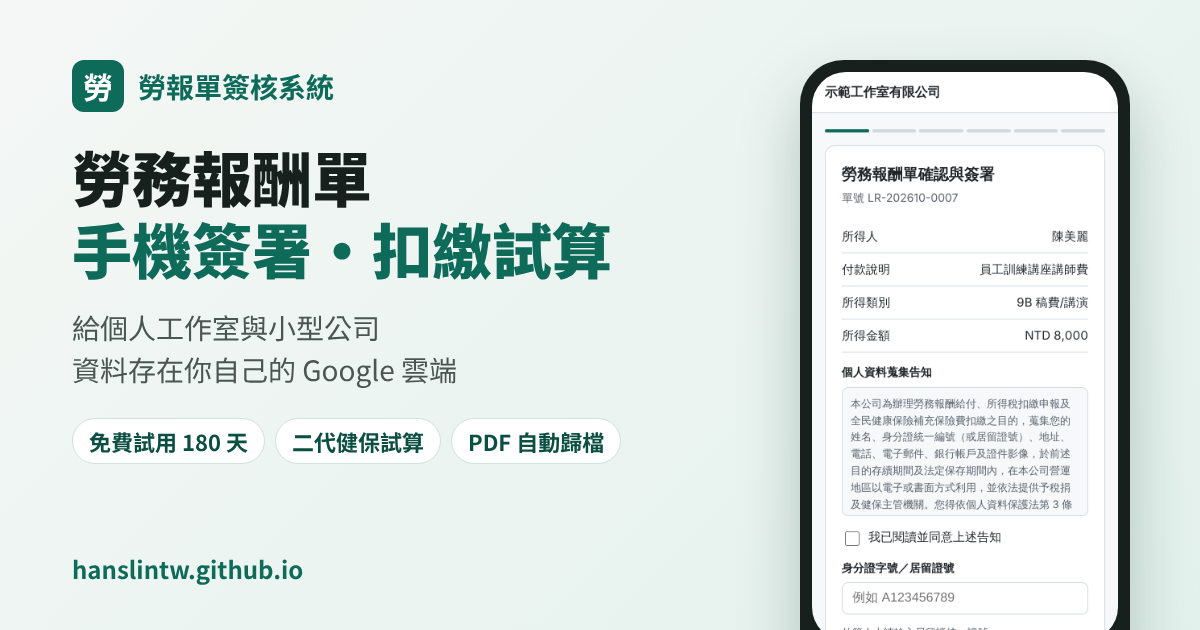
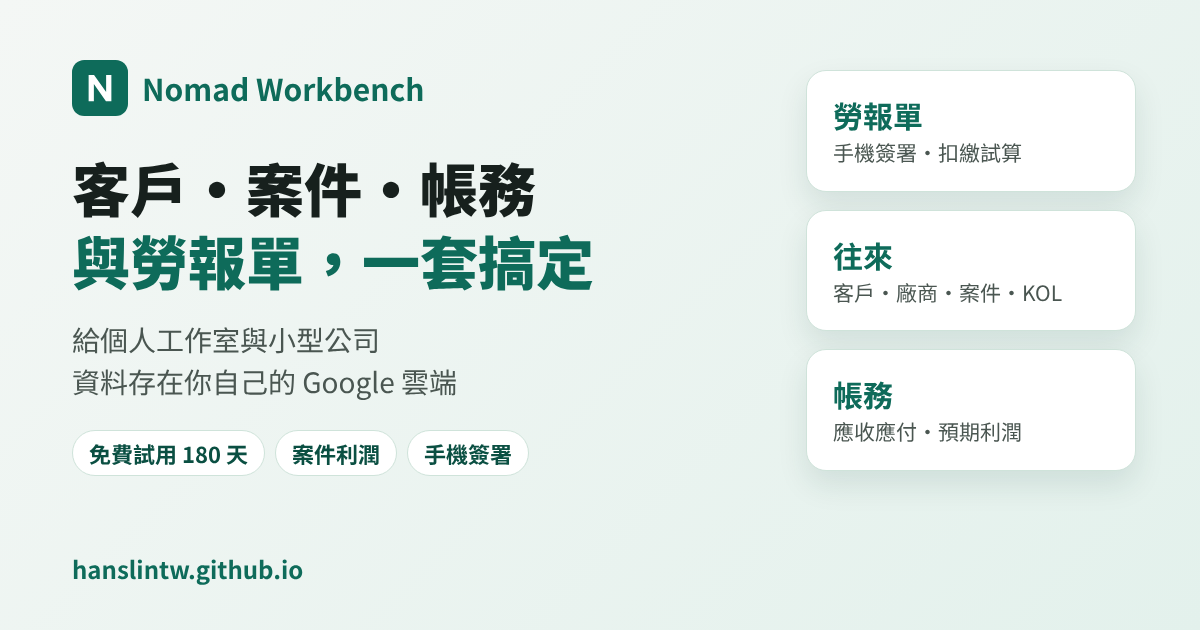
更新

diff --git a/index.html b/index.html
@@ -13,8 +13,8 @@
 <meta charset="utf-8">
 <meta name="viewport" content="width=device-width,initial-scale=1">
 <!-- SEO -->
-<title>Nomad Workbench｜勞務報酬單線上簽署、二代健保與扣繳自動試算</title>
-<meta name="description" content="給個人工作室與小型公司的勞務報酬單系統：輸入姓名金額、傳 LINE 連結，所得人手機簽名，二代健保補充保費與所得稅自動試算，PDF 自動歸檔。資料存在自己的 Google 雲端，免費試用 180 天。">
+<title>Nomad Workbench｜勞務報酬單、客戶案件與帳務管理，資料都在自己的 Google 雲端</title>
+<meta name="description" content="給個人工作室與小型公司的雲端工作台：勞務報酬單線上簽署與二代健保、扣繳自動試算，加上客戶與廠商往來、案件管理、媒體・KOL 邀約、應收應付與案件利潤。資料存在自己的 Google 雲端，免費試用 180 天。">
 <meta name="robots" content="index,follow">
 <link rel="canonical" href="https://hanslintw.github.io/">
 <link rel="icon" href="favicon.svg" type="image/svg+xml">
@@ -23,69 +23,106 @@
 <meta property="og:type" content="website">
 <meta property="og:site_name" content="Nomad Workbench｜REMON nomad">
 <meta property="og:locale" content="zh_TW">
-<meta property="og:title" content="Nomad Workbench｜勞務報酬單線上簽署、二代健保與扣繳自動試算">
-<meta property="og:description" content="給個人工作室與小型公司的勞務報酬單系統：輸入姓名金額、傳 LINE 連結，所得人手機簽名，二代健保補充保費與所得稅自動試算，PDF 自動歸檔。資料存在自己的 Google 雲端，免費試用 180 天。">
+<meta property="og:title" content="Nomad Workbench｜勞務報酬單、客戶案件與帳務管理，資料都在自己的 Google 雲端">
+<meta property="og:description" content="給個人工作室與小型公司的雲端工作台：勞務報酬單線上簽署與二代健保、扣繳自動試算，加上客戶與廠商往來、案件管理、媒體・KOL 邀約、應收應付與案件利潤。資料存在自己的 Google 雲端，免費試用 180 天。">
 <meta property="og:url" content="https://hanslintw.github.io/">
 <meta property="og:image" content="https://hanslintw.github.io/og-image.png">
 <meta property="og:image:width" content="1200">
 <meta property="og:image:height" content="630">
 <meta name="twitter:card" content="summary_large_image">
-<meta name="twitter:title" content="Nomad Workbench｜勞務報酬單線上簽署、二代健保與扣繳自動試算">
-<meta name="twitter:description" content="給個人工作室與小型公司的勞務報酬單系統：輸入姓名金額、傳 LINE 連結，所得人手機簽名，二代健保補充保費與所得稅自動試算，PDF 自動歸檔。資料存在自己的 Google 雲端，免費試用 180 天。">
+<meta name="twitter:title" content="Nomad Workbench｜勞務報酬單、客戶案件與帳務管理，資料都在自己的 Google 雲端">
+<meta name="twitter:description" content="給個人工作室與小型公司的雲端工作台：勞務報酬單線上簽署與二代健保、扣繳自動試算，加上客戶與廠商往來、案件管理、媒體・KOL 邀約、應收應付與案件利潤。資料存在自己的 Google 雲端，免費試用 180 天。">
 <meta name="twitter:image" content="https://hanslintw.github.io/og-image.png">
 <script type="application/ld+json">{"@context":"https://schema.org","@type":"Organization","name":"REMON nomad","url":"https://hanslintw.github.io/","email":"lr@remonnomad.com","logo":"https://hanslintw.github.io/apple-touch-icon.png"}</script>
-<script type="application/ld+json">{"@context":"https://schema.org","@type":"SoftwareApplication","name":"Nomad Workbench","applicationCategory":"BusinessApplication","operatingSystem":"Web（Google 試算表／Google Apps Script）","url":"https://hanslintw.github.io/","image":"https://hanslintw.github.io/og-image.png","inLanguage":"zh-TW","description":"給個人工作室與小型公司的勞務報酬單系統：線上開單、所得人手機簽署、二代健保補充保費與所得稅自動試算、PDF 自動歸檔，資料存放在自己的 Google 雲端。","offers":{"@type":"Offer","price":"0","priceCurrency":"TWD","description":"免費試用 180 天，每月 20 張"},"publisher":{"@type":"Organization","name":"REMON nomad"}}</script>
-<script type="application/ld+json">{"@context":"https://schema.org","@type":"FAQPage","mainEntity":[{"@type":"Question","name":"Nomad Workbench 要收費嗎？","acceptedAnswer":{"@type":"Answer","text":"目前提供 180 天免費試用，期間每月可發送 20 張勞務報酬單。正式方案請來信 lr@remonnomad.com 洽詢。"}},{"@type":"Question","name":"勞報單和所得人的資料會存在哪裡？","acceptedAnswer":{"@type":"Answer","text":"全部存放在貴公司自己的 Google 試算表與 Google 雲端硬碟，包括身分證、存摺影像與簽名。系統供應商無法存取。"}},{"@type":"Question","name":"二代健保補充保費和所得稅會自動計算嗎？","acceptedAnswer":{"@type":"Answer","text":"會。系統依所得類別（執行業務 9A、稿費講演 9B、兼職薪資 50、其他所得 92）與金額，自動判斷是否需要扣繳並試算實付金額；法規參數調整時由系統自動更新。"}},{"@type":"Question","name":"所得人需要下載 App 或註冊帳號嗎？","acceptedAnswer":{"@type":"Answer","text":"不用。所得人用手機打開 LINE 或 Email 收到的連結，就能上傳證件、填寫帳戶並手寫簽名，約 3 分鐘完成。"}},{"@type":"Question","name":"外籍人士可以使用嗎？","acceptedAnswer":{"@type":"Answer","text":"可以。支援居留證統一證號，並由所得人自行申報當年度是否在台居留滿 183 天。"}},{"@type":"Question","name":"需要會寫程式才能安裝嗎？","acceptedAnswer":{"@type":"Answer","text":"不用。依安裝說明操作約 30 分鐘完成，試算表內的安裝精靈會逐步檢查每個步驟；也可以請我們代為安裝。"}}]}</script>
+<script type="application/ld+json">{"@context":"https://schema.org","@type":"SoftwareApplication","name":"Nomad Workbench","applicationCategory":"BusinessApplication","operatingSystem":"Web（Google 試算表／Google Apps Script）","url":"https://hanslintw.github.io/","image":"https://hanslintw.github.io/og-image.png","inLanguage":"zh-TW","description":"給個人工作室與小型公司的雲端工作台：勞務報酬單線上簽署與二代健保、扣繳自動試算，加上客戶與廠商往來、案件管理、媒體・KOL 邀約、應收應付與案件利潤。資料存在自己的 Google 雲端，免費試用 180 天。","featureList":["勞務報酬單線上簽署","二代健保補充保費與所得稅自動試算","客戶、廠商、接案人員往來管理","案件管理（專案、定期服務、期間合約）","媒體・KOL 邀約與合作紀錄","應收、應付與收付款","案件預期利潤與現金淨額","資料存放在自己的 Google 雲端"],"offers":{"@type":"Offer","price":"0","priceCurrency":"TWD","description":"免費試用 180 天，勞報單每月 20 張"},"publisher":{"@type":"Organization","name":"REMON nomad"}}</script>
+<script type="application/ld+json">{"@context":"https://schema.org","@type":"FAQPage","mainEntity":[{"@type":"Question","name":"Nomad Workbench 要收費嗎？","acceptedAnswer":{"@type":"Answer","text":"目前提供 180 天免費試用，期間勞報單每月可發送 20 張。正式方案請來信 lr@remonnomad.com 洽詢。"}},{"@type":"Question","name":"Nomad Workbench 包含哪些功能？","acceptedAnswer":{"@type":"Answer","text":"分成三個模組：勞報單（開單、手機簽署、扣繳試算、PDF 歸檔）、往來（客戶、廠商、接案人員與媒體・KOL 名單，案件與互動紀錄、標籤）、帳務（應收、應付、收付款、固定費用與案件利潤）。三個模組共用同一份資料，勞報單開出後會自動成為案件的應付成本。"}},{"@type":"Question","name":"資料會存在哪裡？","acceptedAnswer":{"@type":"Answer","text":"全部存放在貴公司自己的 Google 試算表與 Google 雲端硬碟，包括客戶與往來對象資料、案件與帳款、所得人的身分證、存摺影像與簽名。系統供應商無法存取。"}},{"@type":"Question","name":"二代健保補充保費和所得稅會自動計算嗎？","acceptedAnswer":{"@type":"Answer","text":"會。系統依所得類別（執行業務 9A、稿費講演 9B、兼職薪資 50、其他所得 92）與金額，自動判斷是否需要扣繳並試算實付金額；法規參數調整時由系統自動更新。"}},{"@type":"Question","name":"案件利潤怎麼算？","acceptedAnswer":{"@type":"Answer","text":"每個案件會同時顯示三種數字：已認列利潤（已開立帳款的收入扣掉成本）、預期利潤（含已排定的收款與預計成本，更接近最後會賺多少），以及現金淨額（實際收到與付出的錢）。固定費用可以平均分攤到當月進行中的案件。"}},{"@type":"Question","name":"金額是含稅還是未稅？","acceptedAnswer":{"@type":"Answer","text":"後台的金額預設以含稅顯示與輸入，容易對照發票與報價；系統內部以未稅記帳，利潤與毛利率以未稅計算。外國廠商等免營業稅的帳款可個別設定。"}},{"@type":"Question","name":"可以限制同事看到成本與金額嗎？","acceptedAnswer":{"@type":"Answer","text":"可以。後台依角色控管：例如業務可以管理客戶與案件，但看不到報價成本與帳務；財務與管理員才能看金額與利潤。"}},{"@type":"Question","name":"所得人需要下載 App 或註冊帳號嗎？","acceptedAnswer":{"@type":"Answer","text":"不用。所得人用手機打開 LINE 或 Email 收到的連結，就能上傳證件、填寫帳戶並手寫簽名，約 3 分鐘完成。"}},{"@type":"Question","name":"外籍人士可以使用嗎？","acceptedAnswer":{"@type":"Answer","text":"可以。支援居留證統一證號，並由所得人自行申報當年度是否在台居留滿 183 天。"}},{"@type":"Question","name":"試用包含往來與帳務模組嗎？","acceptedAnswer":{"@type":"Answer","text":"試用金鑰預設開通勞報單模組。想一起試用「往來」與「帳務」，請來信 lr@remonnomad.com 告知，我們會為你的試用金鑰加開。"}},{"@type":"Question","name":"需要會寫程式才能安裝嗎？","acceptedAnswer":{"@type":"Answer","text":"不用。依安裝說明操作約 30 分鐘完成，試算表內的安裝精靈會逐步檢查每個步驟；也可以請我們代為安裝。"}}]}</script>
 <!-- /SEO -->
 <link rel="stylesheet" href="style.css">
 </head>
 <body>
 <div class="wrap">
-  <header><div class="mk">勞</div><div><b>Nomad Workbench</b><span>REMON nomad</span></div></header>
+  <header><div class="mk">N</div><div><b>Nomad Workbench</b><span>REMON nomad</span></div></header>
 
   <section class="card">
-    <h1>勞務報酬單，在你自己的 Google 雲端完成</h1>
-    <p class="lead">給個人工作室與小型公司的勞報單工具：開單、線上簽署、扣繳試算、PDF 歸檔一次完成。所得人的身分證、存摺與簽名只存放在貴公司自己的 Google 雲端硬碟。</p>
-    <span class="pill">資料留在自己的雲端</span><span class="pill">二代健保、所得稅自動試算</span><span class="pill">手機簽署</span><span class="pill">企業後台</span>
-    <p style="margin:14px 0 0"><a class="btn" href="demo/">立即線上試玩 →</a> <a class="btn" href="install.html#signup" style="background:#fff;color:var(--c);border:1px solid var(--c)">免費試用 180 天</a> <span style="font-size:13px;color:var(--mute)">免登入，左邊開單、右邊用「手機」簽署</span></p>
+    <h1>客戶、案件、帳務與勞報單，都在你自己的 Google 雲端</h1>
+    <p class="lead">給個人工作室與小型公司的雲端工作台：從接洽客戶、管理案件與廠商，到勞務報酬單簽署、應收應付與案件利潤，一套系統接起來。所有資料只存放在貴公司自己的 Google 試算表與雲端硬碟。</p>
+    <span class="pill">資料留在自己的雲端</span><span class="pill">客戶・案件・帳務</span><span class="pill">勞報單手機簽署</span><span class="pill">二代健保、所得稅自動試算</span><span class="pill">案件利潤一目了然</span>
+    <p style="margin:14px 0 0"><a class="btn" href="demo/">立即線上試玩 →</a> <a class="btn" href="install.html#signup" style="background:#fff;color:var(--c);border:1px solid var(--c)">免費試用 180 天</a> <span style="font-size:13px;color:var(--mute)">試玩免登入，左邊開單、右邊用「手機」簽署</span></p>
+  </section>
+
+  <section class="card" id="modules">
+    <h2 style="margin-top:0">三個模組，共用同一份資料</h2>
+    <div class="mods">
+      <div><b>勞報單</b><p>輸入姓名和金額、傳 LINE 連結，所得人手機簽名，扣繳自動試算，PDF 自動歸檔。</p></div>
+      <div><b>往來</b><p>客戶、廠商、接案人員、媒體・KOL 集中管理，案件、互動紀錄與標籤一站查得到。</p></div>
+      <div><b>帳務</b><p>應收、應付、收付款與固定費用；每個案件的預期利潤、已認列利潤與現金淨額。</p></div>
+    </div>
+    <p style="margin:0">勞報單開出後會自動成為案件的應付成本，不必重複登打。可以只用勞報單，也可以三個一起用。</p>
   </section>
 
   <section class="card">
     <h2 style="margin-top:0">以前 vs. 現在</h2>
     <table>
       <tr><th style="width:5em"></th><th>流程</th></tr>
-      <tr><td>以前</td><td>印勞報單 → 寄出 → 等簽名 → 收證件影本 → 手算二代健保與扣繳 → 掃描歸檔</td></tr>
-      <tr><td><b>現在</b></td><td><b>輸入姓名和金額 → 傳 LINE 連結 → 對方手機簽完 → PDF 自動歸檔</b></td></tr>
+      <tr><td>以前</td><td>客戶、廠商資料散在 LINE 與 Excel → 案子成本另外記 → 印勞報單等簽名 → 手算二代健保與扣繳 → 月底才知道賺不賺錢</td></tr>
+      <tr><td><b>現在</b></td><td><b>案件建好、客戶與成員掛上 → 勞報單傳 LINE 連結簽完自動歸檔 → 收付款登記後，案件利潤隨時看得到</b></td></tr>
     </table>
     <h2>適合誰</h2>
     <ul>
       <li>常請攝影師、設計師、講師、工讀生的<b>個人工作室與小型公司</b></li>
-      <li>每月要處理數張到數百張<b>勞務報酬單</b>，不想再紙本往返的經辦與會計</li>
-      <li>重視個資，希望證件與存摺影像<b>只存在自己雲端</b>的團隊</li>
+      <li>同時要管客戶、廠商、案件與收付款，<b>老闆兼財務</b>的小團隊與接案者</li>
+      <li>做公關、活動、記者會，需要記錄<b>媒體與 KOL 邀約、出席與露出</b>的團隊</li>
+      <li>重視個資，希望證件、存摺與客戶資料<b>只存在自己雲端</b>的公司</li>
     </ul>
   </section>
 
   <section class="card" id="faq">
     <h2 style="margin-top:0">常見問題</h2>
-    <details><summary>Nomad Workbench 要收費嗎？</summary><p>目前提供 180 天免費試用，期間每月可發送 20 張勞務報酬單。正式方案請來信 lr@remonnomad.com 洽詢。</p></details>
-    <details><summary>勞報單和所得人的資料會存在哪裡？</summary><p>全部存放在貴公司自己的 Google 試算表與 Google 雲端硬碟，包括身分證、存摺影像與簽名。系統供應商無法存取。</p></details>
+    <details><summary>Nomad Workbench 要收費嗎？</summary><p>目前提供 180 天免費試用，期間勞報單每月可發送 20 張。正式方案請來信 lr@remonnomad.com 洽詢。</p></details>
+    <details><summary>Nomad Workbench 包含哪些功能？</summary><p>分成三個模組：勞報單（開單、手機簽署、扣繳試算、PDF 歸檔）、往來（客戶、廠商、接案人員與媒體・KOL 名單，案件與互動紀錄、標籤）、帳務（應收、應付、收付款、固定費用與案件利潤）。三個模組共用同一份資料，勞報單開出後會自動成為案件的應付成本。</p></details>
+    <details><summary>資料會存在哪裡？</summary><p>全部存放在貴公司自己的 Google 試算表與 Google 雲端硬碟，包括客戶與往來對象資料、案件與帳款、所得人的身分證、存摺影像與簽名。系統供應商無法存取。</p></details>
     <details><summary>二代健保補充保費和所得稅會自動計算嗎？</summary><p>會。系統依所得類別（執行業務 9A、稿費講演 9B、兼職薪資 50、其他所得 92）與金額，自動判斷是否需要扣繳並試算實付金額；法規參數調整時由系統自動更新。</p></details>
+    <details><summary>案件利潤怎麼算？</summary><p>每個案件會同時顯示三種數字：已認列利潤（已開立帳款的收入扣掉成本）、預期利潤（含已排定的收款與預計成本，更接近最後會賺多少），以及現金淨額（實際收到與付出的錢）。固定費用可以平均分攤到當月進行中的案件。</p></details>
+    <details><summary>金額是含稅還是未稅？</summary><p>後台的金額預設以含稅顯示與輸入，容易對照發票與報價；系統內部以未稅記帳，利潤與毛利率以未稅計算。外國廠商等免營業稅的帳款可個別設定。</p></details>
+    <details><summary>可以限制同事看到成本與金額嗎？</summary><p>可以。後台依角色控管：例如業務可以管理客戶與案件，但看不到報價成本與帳務；財務與管理員才能看金額與利潤。</p></details>
     <details><summary>所得人需要下載 App 或註冊帳號嗎？</summary><p>不用。所得人用手機打開 LINE 或 Email 收到的連結，就能上傳證件、填寫帳戶並手寫簽名，約 3 分鐘完成。</p></details>
     <details><summary>外籍人士可以使用嗎？</summary><p>可以。支援居留證統一證號，並由所得人自行申報當年度是否在台居留滿 183 天。</p></details>
+    <details><summary>試用包含往來與帳務模組嗎？</summary><p>試用金鑰預設開通勞報單模組。想一起試用「往來」與「帳務」，請來信 lr@remonnomad.com 告知，我們會為你的試用金鑰加開。</p></details>
     <details><summary>需要會寫程式才能安裝嗎？</summary><p>不用。依<a href="install.html">安裝說明</a>操作約 30 分鐘完成，試算表內的安裝精靈會逐步檢查每個步驟；也可以請我們代為安裝。</p></details>
   </section>
 
-  <section class="card">
-    <h2>功能</h2>
+  <section class="card" id="features">
+    <h2 style="margin-top:0">功能</h2>
+    <h2>勞報單</h2>
     <ul>
       <li>經辦輸入姓名與金額，系統自動帶出所得人資料並試算補充保費、所得稅與實付金額</li>
       <li>所得人用手機開啟連結，上傳證件、填寫帳戶並手寫簽名</li>
       <li>自動產生報酬單 PDF（含證件影像與簽署紀錄），並保存稽核軌跡</li>
-      <li>企業後台：總覽、開單、單據追蹤、批次標記撥款、成員權限</li>
-      <li>扣繳參數依法規更新，由系統自動套用</li>
+      <li>批次標記撥款、單據追蹤；扣繳參數依法規更新，由系統自動套用</li>
+    </ul>
+    <h2>往來與案件</h2>
+    <ul>
+      <li><b>往來對象</b>：公司與個人、客戶／廠商／接案人員／媒體・KOL 角色可複選，可記錄所屬公司與任職紀錄，支援整批匯入</li>
+      <li><b>案件</b>：一次性專案、定期服務、期間合約三種類型各有標籤；合約到期前自動提醒，可設定自動續約；案件成員、窗口與狀態一目了然</li>
+      <li><b>互動紀錄</b>：訊息、電話、會議、拜訪都能記，並標出待跟進事項</li>
+      <li><b>標籤</b>：自訂群組與顏色，往來對象與案件都能分類、篩選</li>
+      <li><b>媒體・KOL 邀約</b>：記錄每場活動的邀請、回覆、出席、露出連結與評分，下次依過去的出席率與配合度挑選邀請名單；沒有這類需求的案件可以不顯示</li>
+    </ul>
+    <h2>帳務</h2>
+    <ul>
+      <li><b>應收</b>：開立帳款、排定分期收款；<b>應付</b>：記錄廠商與接案人員成本，對象是個人時直接連到勞報單</li>
+      <li><b>收付款</b>：登記實際收付，應收應付的狀態自動更新</li>
+      <li><b>固定費用</b>：房租、軟體等月費可選擇平均分攤到當月進行中的案件，已結案的案件不會被分攤</li>
+      <li><b>案件利潤</b>：已認列利潤、預期利潤與現金淨額同時呈現，還能看到預算還剩多少</li>
+      <li>金額預設以<b>含稅</b>輸入與顯示，對照發票與報價更直覺</li>
+    </ul>
+    <h2>安全與權限</h2>
+    <ul>
+      <li>企業後台依角色控管，業務與財務看到的內容不同；身分證、帳號、地址在畫面上一律遮罩</li>
+      <li>系統安裝在自己的 Google 帳號，所有資料只存放在貴公司的試算表與雲端硬碟，系統供應商無法存取</li>
     </ul>
     <h2>資料與隱私</h2>
-    <p>系統安裝在貴公司自己的 Google 帳號中執行，所有單據與所得人資料都儲存在貴公司的 Google 試算表與雲端硬碟；系統供應商無法存取。詳見<a href="privacy.html">隱私權政策</a>與<a href="terms.html">服務條款</a>。</p>
+    <p>詳見<a href="privacy.html">隱私權政策</a>與<a href="terms.html">服務條款</a>。</p>
     <h2 id="contact">聯絡</h2>
     <p>購買後可依<a href="install.html">安裝說明</a>自行安裝（約 30 分鐘），也可以請我們代裝。</p>
     <p>試用、安裝與授權洽詢：<a href="mailto:lr@remonnomad.com">lr@remonnomad.com</a></p>

diff --git a/install.html b/install.html
@@ -13,8 +13,8 @@
 <meta charset="utf-8">
 <meta name="viewport" content="width=device-width,initial-scale=1">
 <!-- SEO -->
-<title>勞報單系統安裝說明與免費試用 180 天｜Nomad Workbench</title>
-<meta name="description" content="免費試用 Nomad Workbench 180 天：填表後金鑰自動寄到信箱，依 8 個步驟約 30 分鐘完成安裝（Google Cloud 專案、建立副本、部署、授權金鑰），安裝精靈全程自動檢查。">
+<title>Nomad Workbench 安裝說明與免費試用 180 天</title>
+<meta name="description" content="免費試用 Nomad Workbench 180 天（勞報單、往來、帳務）：填表後金鑰自動寄到信箱，依 8 個步驟約 30 分鐘完成安裝（Google Cloud 專案、建立副本、部署、授權金鑰），安裝精靈全程自動檢查。">
 <meta name="robots" content="index,follow">
 <link rel="canonical" href="https://hanslintw.github.io/install.html">
 <link rel="icon" href="favicon.svg" type="image/svg+xml">
@@ -23,15 +23,15 @@
 <meta property="og:type" content="website">
 <meta property="og:site_name" content="Nomad Workbench｜REMON nomad">
 <meta property="og:locale" content="zh_TW">
-<meta property="og:title" content="勞報單系統安裝說明與免費試用 180 天｜Nomad Workbench">
-<meta property="og:description" content="免費試用 Nomad Workbench 180 天：填表後金鑰自動寄到信箱，依 8 個步驟約 30 分鐘完成安裝（Google Cloud 專案、建立副本、部署、授權金鑰），安裝精靈全程自動檢查。">
+<meta property="og:title" content="Nomad Workbench 安裝說明與免費試用 180 天">
+<meta property="og:description" content="免費試用 Nomad Workbench 180 天（勞報單、往來、帳務）：填表後金鑰自動寄到信箱，依 8 個步驟約 30 分鐘完成安裝（Google Cloud 專案、建立副本、部署、授權金鑰），安裝精靈全程自動檢查。">
 <meta property="og:url" content="https://hanslintw.github.io/install.html">
 <meta property="og:image" content="https://hanslintw.github.io/og-image.png">
 <meta property="og:image:width" content="1200">
 <meta property="og:image:height" content="630">
 <meta name="twitter:card" content="summary_large_image">
-<meta name="twitter:title" content="勞報單系統安裝說明與免費試用 180 天｜Nomad Workbench">
-<meta name="twitter:description" content="免費試用 Nomad Workbench 180 天：填表後金鑰自動寄到信箱，依 8 個步驟約 30 分鐘完成安裝（Google Cloud 專案、建立副本、部署、授權金鑰），安裝精靈全程自動檢查。">
+<meta name="twitter:title" content="Nomad Workbench 安裝說明與免費試用 180 天">
+<meta name="twitter:description" content="免費試用 Nomad Workbench 180 天（勞報單、往來、帳務）：填表後金鑰自動寄到信箱，依 8 個步驟約 30 分鐘完成安裝（Google Cloud 專案、建立副本、部署、授權金鑰），安裝精靈全程自動檢查。">
 <meta name="twitter:image" content="https://hanslintw.github.io/og-image.png">
 <script type="application/ld+json">{"@context":"https://schema.org","@type":"FAQPage","mainEntity":[{"@type":"Question","name":"為什麼一定要建立 Google Cloud 專案？","acceptedAnswer":{"@type":"Answer","text":"系統要靠它安全地更新你帳號裡的程式。法規參數或功能更新時，只要在後台按一下更新，不用重新安裝。不需要付費，也不用綁信用卡。"}},{"@type":"Question","name":"安裝時出現「Google 尚未驗證這個應用程式」安全嗎？","acceptedAnswer":{"@type":"Answer","text":"這是因為程式複製到你自己的帳號裡執行，Google 視為你自己的程式，不會經過審查。資料只在你的帳號裡流動，不會送到第三方。"}},{"@type":"Question","name":"安裝勞報單系統需要多久？","acceptedAnswer":{"@type":"Answer","text":"依安裝說明約 30 分鐘，安裝精靈會自動檢查每一步，做錯會直接提示。"}},{"@type":"Question","name":"系統供應商看得到我的資料嗎？","acceptedAnswer":{"@type":"Answer","text":"看不到。所有資料都存在你自己的 Google 帳號，授權中心只會收到每月張數這類統計數字。"}}]}</script>
 <!-- /SEO -->
@@ -64,10 +64,10 @@ table{table-layout:auto}td,th{overflow-wrap:anywhere}
 </head>
 <body>
 <div class="wrap">
-  <header><a href="index.html" style="display:flex;gap:12px;align-items:center;color:inherit;text-decoration:none"><div class="mk">勞</div><div><b>Nomad Workbench</b><span>安裝說明</span></div></a></header>
+  <header><a href="index.html" style="display:flex;gap:12px;align-items:center;color:inherit;text-decoration:none"><div class="mk">N</div><div><b>Nomad Workbench</b><span>安裝說明</span></div></a></header>
 
   <section class="card">
-    <h1>自行安裝說明</h1>
+    <h1>Nomad Workbench 自行安裝說明</h1>
     <p class="lead">約 30 分鐘。全程在貴公司自己的 Google 帳號中操作，系統供應商看不到你的任何資料。</p>
     <h2>開始前請準備</h2>
     <ul>
@@ -91,7 +91,8 @@ table{table-layout:auto}td,th{overflow-wrap:anywhere}
 
   <section class="card" id="signup">
     <h2 style="margin-top:0">免費試用 180 天</h2>
-    <p>填寫後，試用金鑰會立即寄到你的信箱。試用 180 天，期間每月可發送 20 張報酬單，資料一樣存放在你自己的 Google 帳號。</p>
+    <p>填寫後，試用金鑰會立即寄到你的信箱。試用 180 天，期間勞報單每月可發送 20 張，資料一樣存放在你自己的 Google 帳號。</p>
+    <p class="sub-tip">試用金鑰預設開通「勞報單」模組。想一起試用客戶案件管理的「往來」與記帳的「帳務」模組，請來信 <a href="mailto:lr@remonnomad.com?subject=%E7%94%B3%E8%AB%8B%E5%BE%80%E4%BE%86%E8%88%87%E5%B8%B3%E5%8B%99%E6%A8%A1%E7%B5%84%E8%A9%A6%E7%94%A8">lr@remonnomad.com</a> 告知，我們會為你的試用金鑰加開。</p>
     <form id="sf" novalidate>
       <div class="f2">
         <label class="fld"><span>公司或工作室名稱 <i>*</i></span><input name="company" maxlength="60" autocomplete="organization" required></label>

diff --git a/privacy.html b/privacy.html
@@ -38,14 +38,14 @@
 </head>
 <body>
 <div class="wrap">
-  <header><div class="mk">勞</div><div><b>Nomad Workbench</b><span>隱私權政策</span></div></header>
+  <header><div class="mk">N</div><div><b>Nomad Workbench</b><span>隱私權政策</span></div></header>
   <section class="card">
     <h1>隱私權政策</h1>
-    <p>生效日期：2026 年 10 月 4 日</p>
+    <p>生效日期：2026 年 10 月 13 日</p>
     <p>本政策說明「Nomad Workbench」（以下稱「本系統」，由 REMON nomad 提供）如何處理資料。本系統以 Google Apps Script 安裝在使用本系統的企業（以下稱「客戶」）自己的 Google 帳號中執行。</p>
 
     <h2>一、資料存放在哪裡</h2>
-    <p>本系統處理的單據、金額、所得人姓名、身分證字號、地址、電話、銀行帳戶、證件與存摺影像、簽名及稽核紀錄，<b>全部儲存在客戶自己的 Google 試算表與 Google 雲端硬碟</b>。系統供應商不會取得、儲存或存取上述資料。客戶為上述個人資料的蒐集、處理與利用者，應依個人資料保護法向所得人履行告知義務（本系統內建可由客戶修改的告知文字）。</p>
+    <p>本系統處理的單據、金額、所得人姓名、身分證字號、地址、電話、銀行帳戶、證件與存摺影像、簽名及稽核紀錄；以及客戶在「往來」與「帳務」模組中建立的客戶、廠商與往來對象聯絡資料、案件、互動紀錄、媒體與 KOL 合作紀錄、應收應付與收付款紀錄，<b>全部儲存在客戶自己的 Google 試算表與 Google 雲端硬碟</b>。系統供應商不會取得、儲存或存取上述資料。</p>
 
     <h2>二、本系統存取的 Google 使用者資料</h2>
     <p>授權時，本系統會要求以下 Google 權限，<b>僅用於在客戶自己的帳號中執行本系統的功能</b>：</p>
@@ -54,7 +54,7 @@
       <tr><td>Google 試算表</td><td>讀寫本系統的控制台與資料庫試算表</td></tr>
       <tr><td>Google 雲端硬碟</td><td>建立資料夾，存放證件影像、簽名與報酬單 PDF</td></tr>
       <tr><td>Google 文件</td><td>依報酬單範本產生 PDF</td></tr>
-      <tr><td>以使用者身分傳送電子郵件</td><td>寄送簽署連結、簽署完成與撥款通知</td></tr>
+      <tr><td>以使用者身分傳送電子郵件</td><td>寄送簽署連結、簽署完成與撥款通知，以及合約到期提醒</td></tr>
       <tr><td>連線至外部服務</td><td>向授權中心驗證授權與取得參數、程式更新</td></tr>
       <tr><td>管理 Apps Script 專案與部署</td><td>僅用於更新本系統自己的程式（一鍵更新）</td></tr>
       <tr><td>電子郵件地址、觸發器、對話框</td><td>辨識後台登入者、執行每日排程、顯示操作畫面</td></tr>
@@ -62,7 +62,7 @@
     <p>本系統對 Google 使用者資料的使用與傳輸，遵守 <a href="https://developers.google.com/terms/api-services-user-data-policy">Google API 服務使用者資料政策</a>，包括有限使用（Limited Use）規定：不將資料用於廣告、不出售、不轉移給第三方，也不供人員閱讀，除非為提供或改善客戶要求的功能、遵守法律，或經客戶明確同意。</p>
 
     <h2>三、授權中心收到的資料</h2>
-    <p>為驗證授權與提供更新，本系統每 12 小時向系統供應商的授權中心傳送：授權金鑰、Apps Script 專案 ID、系統版本、公司名稱、安裝是否完成，以及本月與上月的單據<b>張數</b>（開單、發送、簽署、撥款各幾張）。<b>不包含任何所得人的姓名、身分證字號、帳戶、地址、電話、金額或影像。</b>張數用於方案上限計算、客服與改善服務。授權中心另保存驗證紀錄（金鑰以遮罩方式記錄），供授權管理與客服使用，保存至授權關係結束後一年。</p>
+    <p>為驗證授權與提供更新，本系統每 12 小時向系統供應商的授權中心傳送：授權金鑰、Apps Script 專案 ID、系統版本、公司名稱、安裝是否完成，以及本月與上月的單據<b>張數</b>（開單、發送、簽署、撥款各幾張），若使用「往來」模組，另包含往來對象、案件與互動紀錄的<b>筆數</b>。<b>不包含任何所得人或往來對象的姓名、身分證字號、帳戶、地址、電話、Email、案件內容、金額或影像。</b>張數用於方案上限計算、客服與改善服務。授權中心另保存驗證紀錄（金鑰以遮罩方式記錄），供授權管理與客服使用，保存至授權關係結束後一年。</p>
 
     <h2>四、申請試用時填寫的資料</h2>
     <p>在網站申請試用時，我們會收集你填寫的公司或工作室名稱、聯絡人、Email、電話與預估用量，<b>僅用於寄送授權金鑰、提供客服與試用後的聯繫</b>，儲存在系統供應商的授權中心，不會出售或提供給第三方。如需查詢、更正或刪除，請來信。</p>
@@ -74,7 +74,8 @@
     <ul>
       <li>所得人填寫連結使用隨機產生的長代碼，限期有效，驗證錯誤達上限即鎖定</li>
       <li>企業後台依角色控管，畫面上的身分證、帳號、地址一律遮罩</li>
-      <li>系統日誌不記錄所得人的個人資料</li>
+      <li>系統日誌不記錄所得人與往來對象的個人資料</li>
+      <li>「往來」「帳務」的金額、成本與利潤依角色控管，未被授權的成員（例如業務）看不到</li>
     </ul>
 
     <h2>七、聯絡我們</h2>

diff --git a/terms.html b/terms.html
@@ -38,25 +38,27 @@
 </head>
 <body>
 <div class="wrap">
-  <header><div class="mk">勞</div><div><b>Nomad Workbench</b><span>服務條款</span></div></header>
+  <header><div class="mk">N</div><div><b>Nomad Workbench</b><span>服務條款</span></div></header>
   <section class="card">
     <h1>服務條款</h1>
-    <p>生效日期：2026 年 10 月 3 日</p>
+    <p>生效日期：2026 年 10 月 13 日</p>
     <h2>一、服務內容</h2>
     <p>REMON nomad 提供「Nomad Workbench」之使用授權、參數更新與程式更新。系統安裝並執行於客戶自己的 Google 帳號，客戶須自行遵守 Google 服務條款。</p>
     <h2>二、授權</h2>
-    <p>授權依雙方約定之方案、期間與張數上限提供，一組授權金鑰限用於一份系統。授權到期或停用後，系統將停止開立新單；已寄出之簽署連結仍可完成簽署，客戶資料仍保留於客戶自己的雲端硬碟。</p>
+    <p>授權依雙方約定之方案、模組（勞報單、往來、帳務）、期間與張數上限提供，一組授權金鑰限用於一份系統。授權到期或停用後，系統將停止開立新單；已寄出之簽署連結仍可完成簽署，客戶資料仍保留於客戶自己的雲端硬碟。</p>
     <h2>三、扣繳計算</h2>
     <p>本系統依公告之法規參數試算所得稅與補充保費，僅供作業參考。實際扣繳、申報與繳納之正確性由客戶負責，建議由會計師覆核。</p>
-    <h2>四、客戶責任</h2>
+    <h2>四、帳務資料</h2>
+    <p>「帳務」模組中的利潤、毛利、預期利潤、現金淨額與固定費用分攤，係依客戶自行輸入的資料計算，僅供經營管理參考，不構成會計、稅務或財務建議，亦不能取代發票、帳簿與申報文件。金額之正確性與稅務處理由客戶負責，建議由會計師覆核。</p>
+    <h2>五、客戶責任</h2>
     <ul>
-      <li>依個人資料保護法蒐集、處理與利用所得人資料，並履行告知義務</li>
+      <li>依個人資料保護法蒐集、處理與利用所得人與往來對象（客戶、廠商、媒體・KOL 等）之資料，並履行告知義務</li>
       <li>妥善管理 Google 帳號、後台成員權限與資料存取權限</li>
       <li>不得反組譯、移除授權機制，或將本系統轉授權予第三方</li>
     </ul>
-    <h2>五、免責</h2>
+    <h2>六、免責</h2>
     <p>因 Google 服務中斷、政策變更、客戶帳號設定或第三方因素造成之損失，REMON nomad 不負賠償責任；REMON nomad 之賠償責任以客戶最近十二個月已支付之授權費用為上限。</p>
-    <h2>六、聯絡</h2>
+    <h2>七、聯絡</h2>
     <p><a href="mailto:lr@remonnomad.com">lr@remonnomad.com</a></p>
   </section>
   <footer><a href="index.html">回首頁</a>・<a href="privacy.html">隱私權政策</a></footer>

diff --git a/style.css b/style.css
@@ -3,7 +3,7 @@
 body{margin:0;background:var(--bg);color:var(--ink);font:16px/1.75 "Noto Sans TC",-apple-system,"PingFang TC","Microsoft JhengHei",sans-serif}
 .wrap{max-width:760px;margin:0 auto;padding:40px 16px 64px}
 header{display:flex;align-items:center;gap:12px;margin-bottom:28px}
-.mk{width:40px;height:40px;border-radius:10px;background:var(--c);color:#fff;display:flex;align-items:center;justify-content:center;font-weight:700;font-size:19px}
+.mk{letter-spacing:0;width:40px;height:40px;border-radius:10px;background:var(--c);color:#fff;display:flex;align-items:center;justify-content:center;font-weight:700;font-size:19px}
 header b{font-size:18px;display:block;line-height:1.3}header span{font-size:13px;color:var(--mute)}
 .card{background:#fff;border:1px solid var(--line);border-radius:14px;padding:28px 24px;margin-bottom:18px}
 h1{font-size:26px;line-height:1.35;margin:0 0 12px}h2{font-size:18px;margin:26px 0 8px}h2:first-child{margin-top:0}
@@ -15,3 +15,4 @@ table{border-collapse:collapse;width:100%;font-size:14px;margin:6px 0 14px}td,th
 
 .btn{display:inline-block;background:var(--c);color:#fff;text-decoration:none;border-radius:10px;padding:10px 18px;font-weight:600}.btn:hover{opacity:.92}
 details{border-top:1px solid var(--line);padding:12px 0}details:last-child{border-bottom:1px solid var(--line)}summary{cursor:pointer;font-weight:600;list-style-position:inside}details p{margin:8px 0 0;color:var(--mute)}
+.mods{display:grid;grid-template-columns:repeat(3,1fr);gap:12px;margin:0 0 14px}.mods>div{background:var(--tint);border-radius:12px;padding:14px 16px}.mods b{display:block;margin-bottom:4px;color:#0A4F42}.mods p{margin:0;font-size:14px;color:var(--ink);line-height:1.6}@media (max-width:560px){.mods{grid-template-columns:1fr}}
